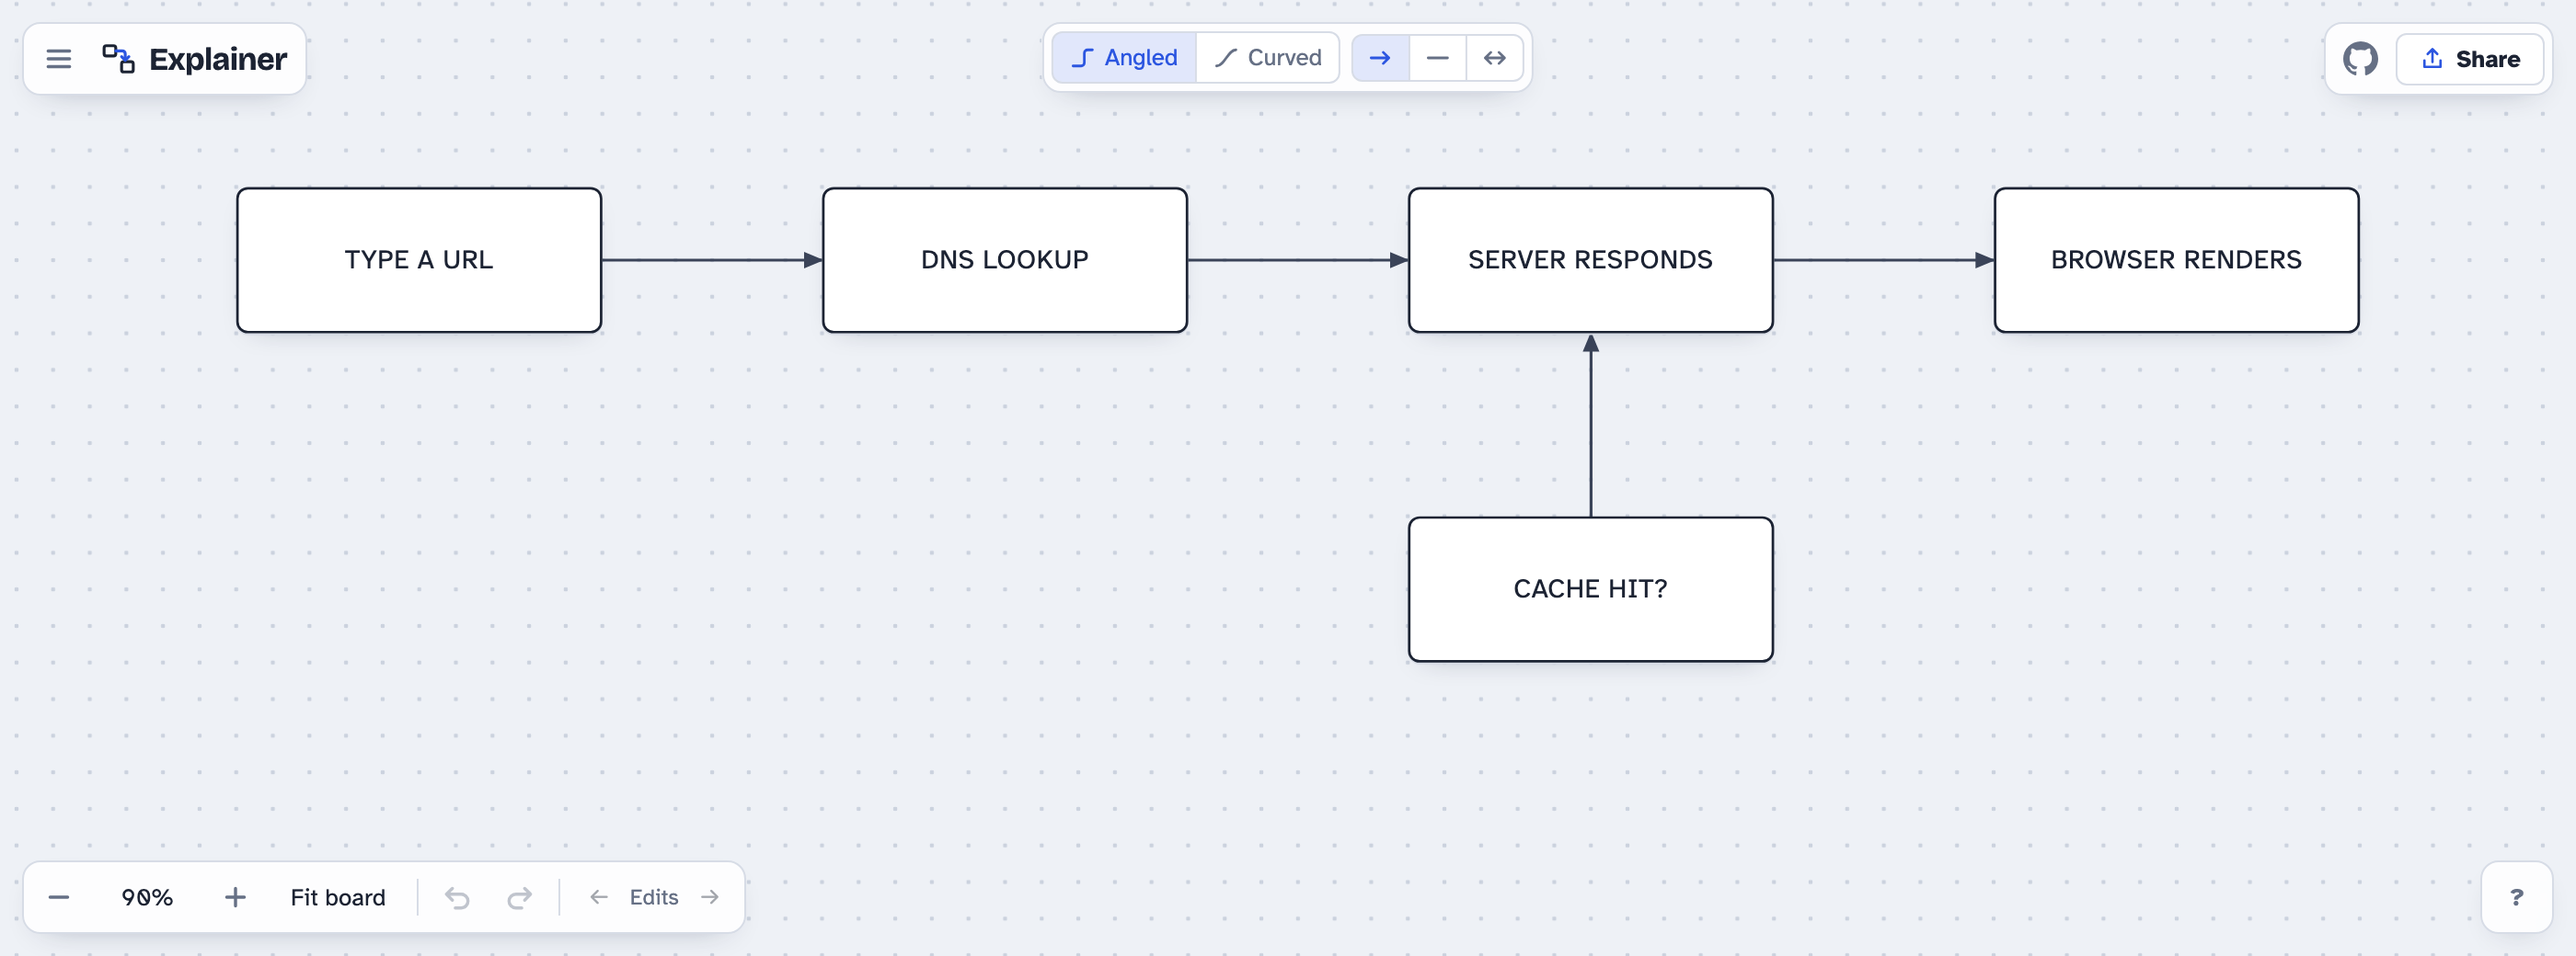
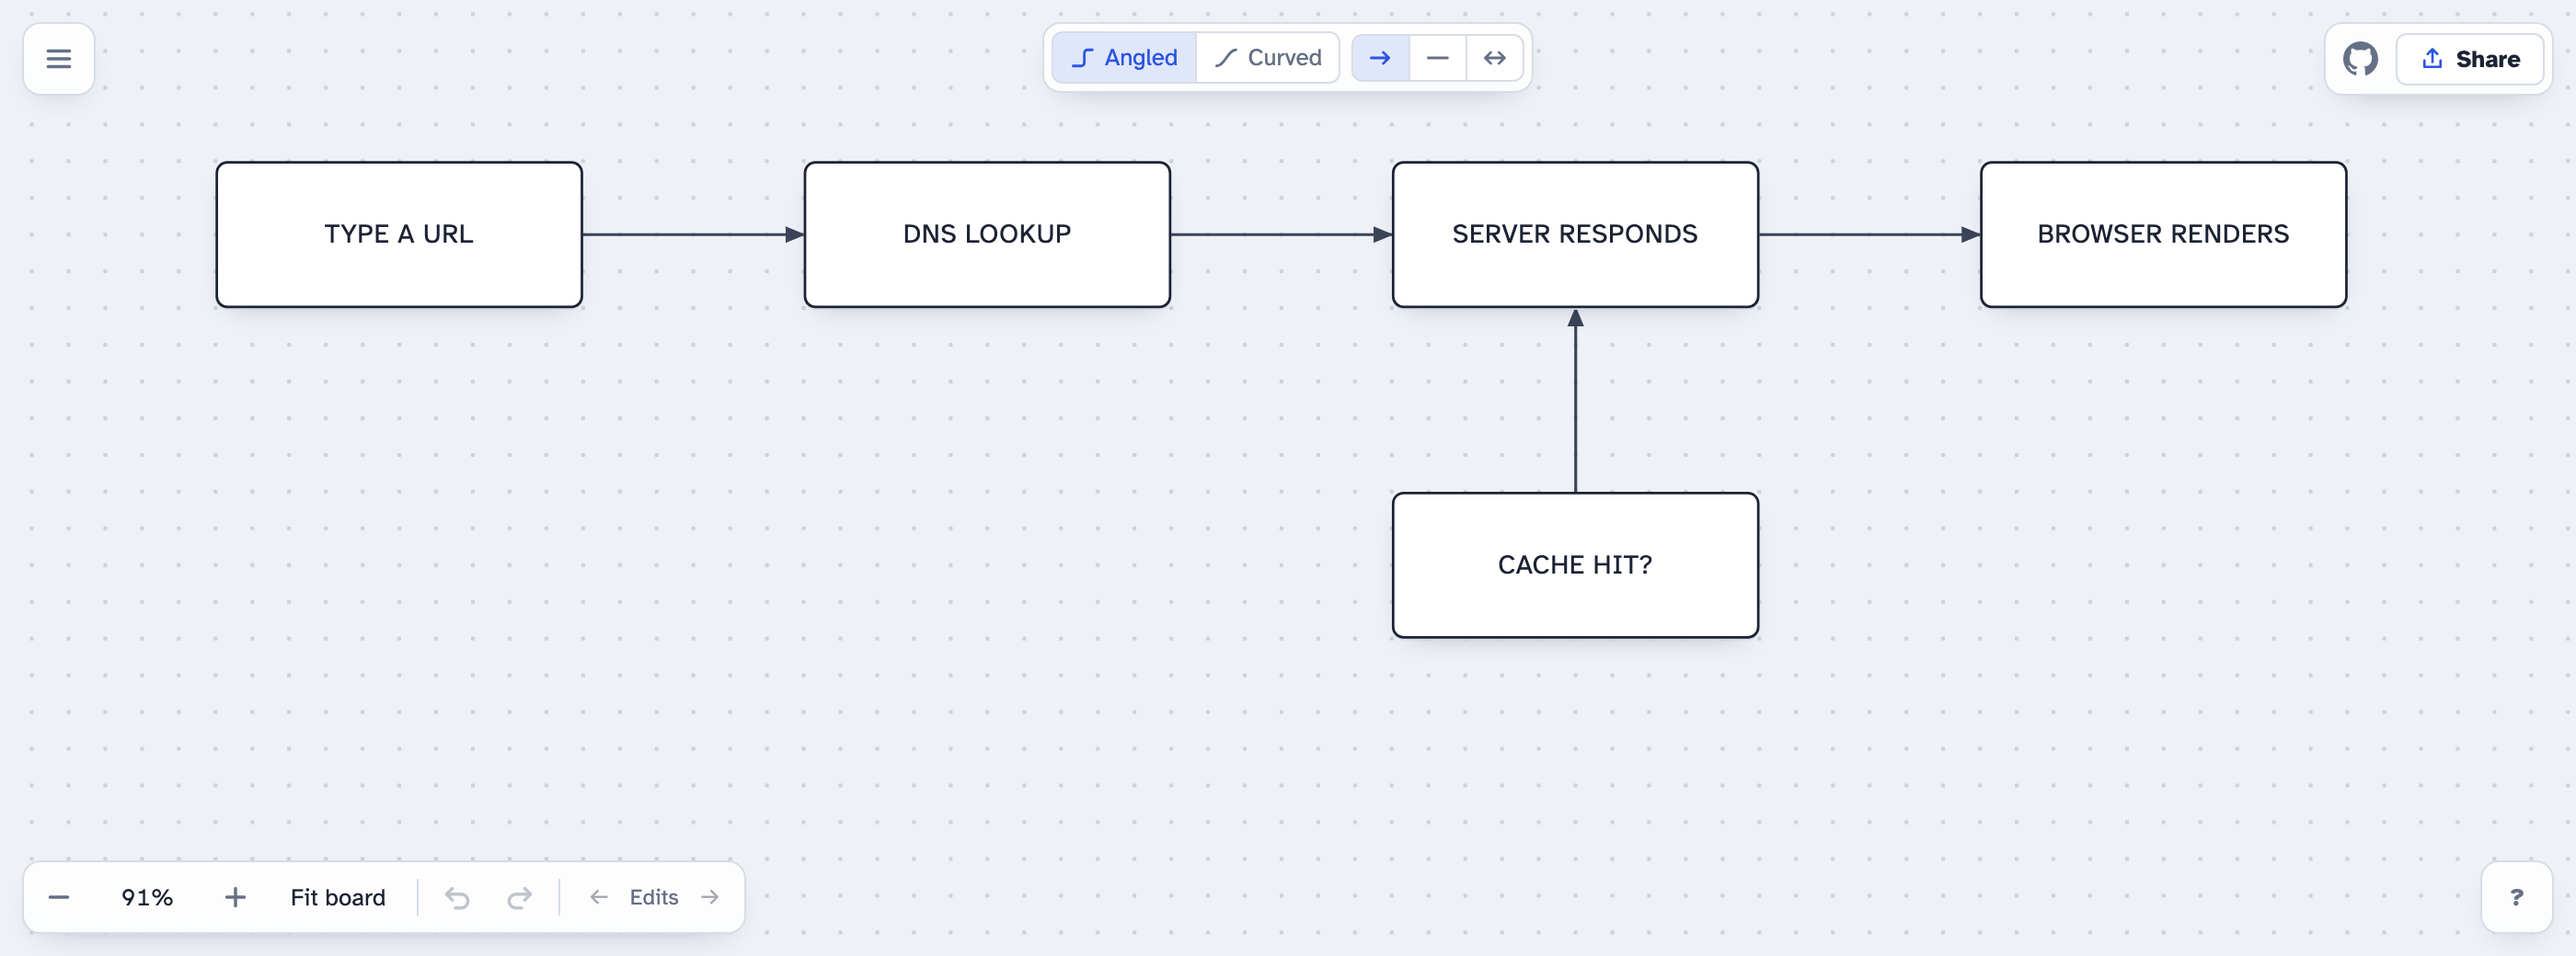
Docs: D-057 top-left island is the menu button only; D-041/D-056 statuses; README wording; new screenshots (D-057, D-059, D-062)

diff --git a/DECISIONS.md b/DECISIONS.md
@@ -42,7 +42,7 @@ Active decision is a bug. Read it before changing behaviour, and update it in th
   checked were explain.how, explainthis.how, explainthis.page, explainer.how, boxsplain.com,
   whyboard.app, explainerboard.com.
 - Why: User's chosen name.
-- Code: `<title>`, header `.mark`.
+- Code: `<title>`, the logo in the welcome (`.wl-logo`).
 
 ### D-002: One self-contained HTML file, no build step
 - Status: Active
@@ -362,7 +362,7 @@ Active decision is a bug. Read it before changing behaviour, and update it in th
 - Code: `theme`, `setTheme`, `[data-theme]` CSS blocks.
 
 ### D-041: Every setting is saved with the board
-- Status: Active
+- Status: Amended by D-062
 - Amends: D-029
 - Date: 2026-10-13
 - Decision: Theme, snap, auto-capitalise, line style, and shortcuts panel open/pinned are stored in
@@ -533,7 +533,7 @@ Active decision is a bug. Read it before changing behaviour, and update it in th
 - Code: `.gh` link in `header`, header right padding.
 
 ### D-056: Capitals: All caps (default), Sentence case, As typed
-- Status: Active
+- Status: Amended by D-059
 - Date: 2026-10-13
 - Amends: D-034
 - Decision: The former Auto-capitalise switch is a button that cycles through three modes, showing
@@ -556,7 +556,8 @@ Active decision is a bug. Read it before changing behaviour, and update it in th
 - Date: 2026-10-13
 - Amends: D-055, D-037
 - Decision: There is no header; the board fills the window and small islands float over it.
-  Top-left: the ☰ menu button, the mark, the wordmark and the "Example board" tag. Top-centre:
+  Top-left: the ☰ menu button only; the "Example board" tag is a separate small pill just to the
+  right of it, shown only while the example board is on screen. Top-centre:
   the style for new lines (Angled/Curved and arrowheads). Top-right: the GitHub link and Share.
   Bottom-left: zoom −, the zoom percentage, zoom +, Fit board, Undo, Redo and the Edits control.
   Bottom-right: the **?** button for shortcuts. The GitHub link of D-055 now sits in the top-right
@@ -566,7 +567,8 @@ Active decision is a bug. Read it before changing behaviour, and update it in th
   on windows wider than 640px (was 480px). At 860px or less the panel's height is capped so it
   stays below the top islands.
 - Why: User chose the floating layout inspired by Excalidraw, so the board gets the whole window.
-- Code: `#islTL`, `#islTC`, `#islTR`, `#islBL`, `.isl` and the media queries at 860px and 640px,
+  The user later asked for the top-left island to hold the menu button only (no mark or wordmark).
+- Code: `#islTL`, `#exampleTag`, `#islTC`, `#islTR`, `#islBL`, `.isl` and the media queries at 860px and 640px,
   `setHelp`, `helpPref`.
 
 ### D-058: Quiet Share button
@@ -580,7 +582,9 @@ Active decision is a bug. Read it before changing behaviour, and update it in th
 ### D-059: The ☰ menu
 - Status: Active
 - Date: 2026-10-13
-- Decision: The ☰ button opens a menu with: Theme, Capitals and Snap to grid (these rows stay
+- Amends: D-056
+- Decision: The ☰ button opens a menu with: Theme, Capitals (moved here from the header, amending
+  D-056) and Snap to grid (these rows stay
   open when clicked so you can cycle them); Open the example board; Clear board; on phone-width
   windows only, Fit board, Previous edit place and Next edit place; Shortcuts; Source on GitHub.
   It closes on Esc or a click outside it.
@@ -619,7 +623,7 @@ Active decision is a bug. Read it before changing behaviour, and update it in th
 ### D-062: Arrowheads for new lines
 - Status: Active
 - Date: 2026-10-13
-- Amends: D-052
+- Amends: D-052, D-041
 - Decision: The top-centre island sets the arrowheads of new lines: arrow at the end (default),
   plain, or arrows at both ends. The setting is remembered and travels in share links as key `a`
   (0 none, 1 end, 2 both); a link without `a` leaves the setting unchanged. It does not change

diff --git a/README.md b/README.md
@@ -7,7 +7,7 @@
 
 <p align="center">
   A tiny whiteboard for explaining things. Draw a box, type, connect it to the next one.<br>
-  No sign-up, no install, no menus to learn. One HTML file.
+  No sign-up, no install, nothing to learn. One HTML file.
 </p>
 
 <p align="center">
@@ -49,7 +49,7 @@ Hold Shift as you drop it for a plain line without an arrow, or Shift+Ctrl for a
 **Arrange.** Drag a box from anywhere to move it, and its lines follow. Drag across several items to
 select them, or Shift+click to add to the selection. Boxes snap to the grid unless you turn it off.
 
-**Change a line.** Click a line and a toolbar appears above it: angled or curved, arrow at the end,
+**Change a line.** Click a line and a toolbar appears next to it: angled or curved, arrow at the end,
 plain or both ends, reverse direction, copy and delete. The ☰ menu holds the theme, capitals and
 snap to grid.
 
